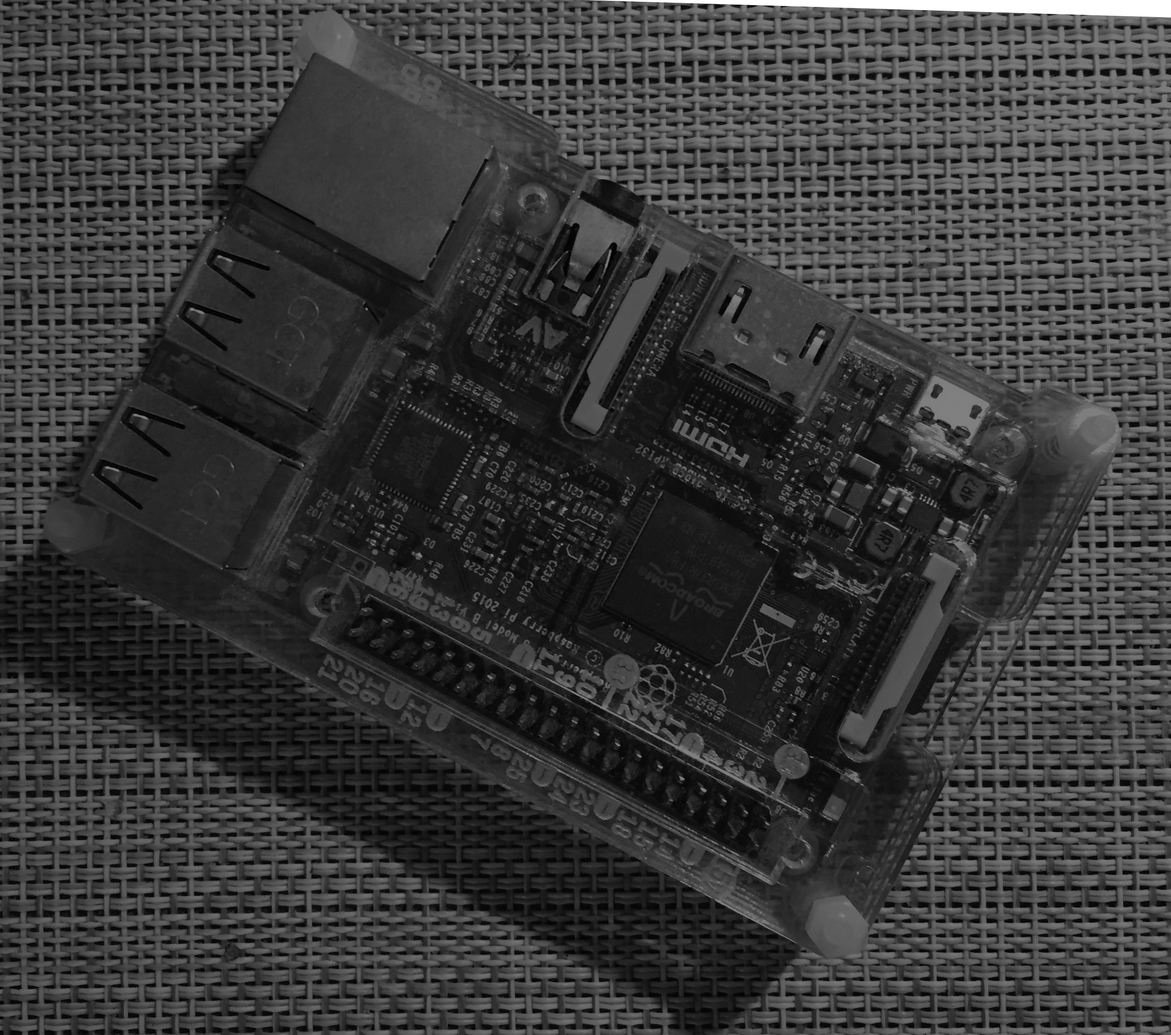
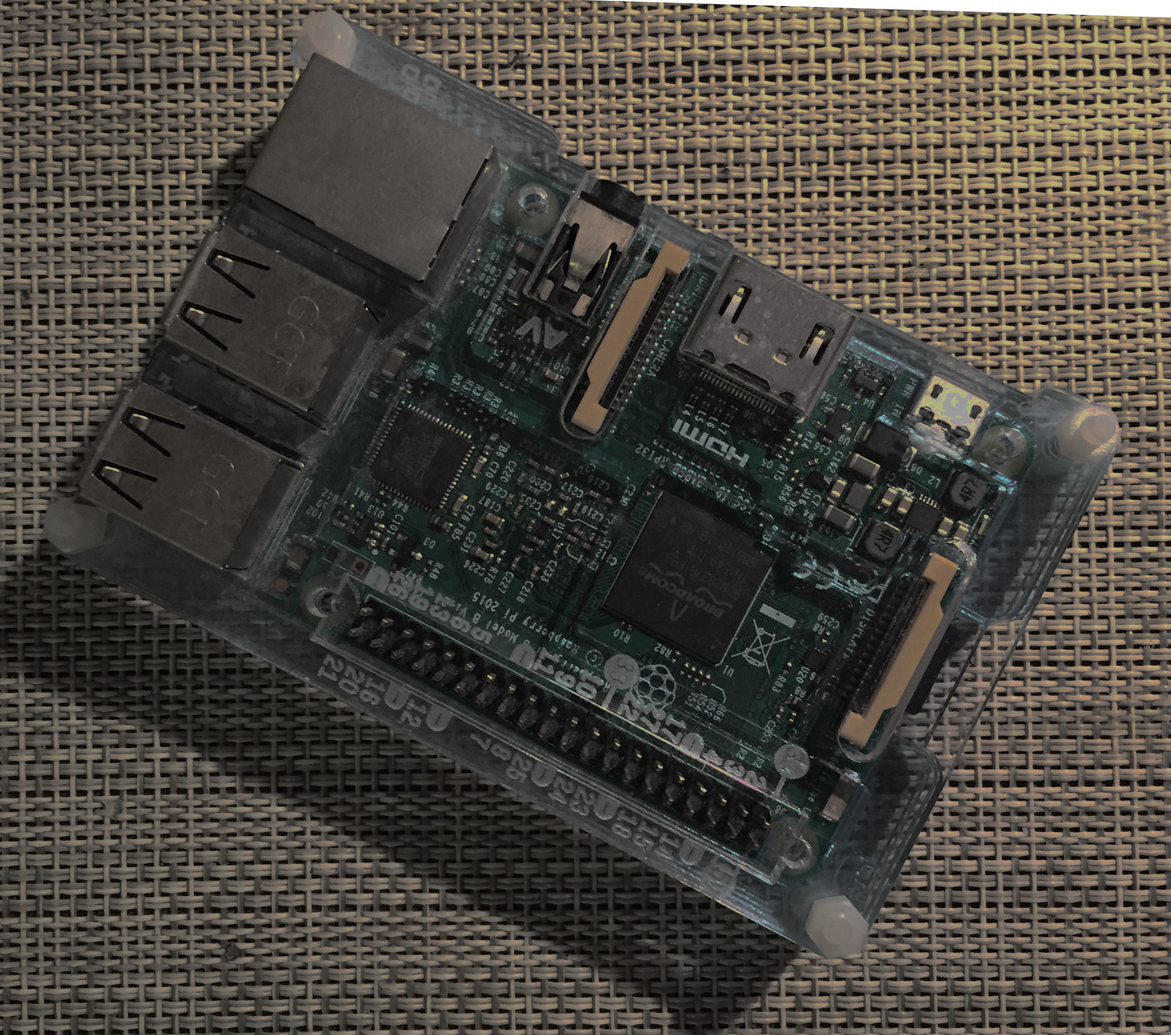
Updated pi background image

diff --git a/pi.css b/pi.css
@@ -9,7 +9,8 @@
 }
 
 body {
-  background: var(--body) url(images/raspi.jpg) center center / cover;
+  /* background: var(--body) url(images/raspi.jpg) center center / cover; */
+  background: var(--body) url(images/raspi-trans.png) center center / cover;
   color: var(--text);
   font-family: 'Raleway', sans-serif;
   height: 100vh
